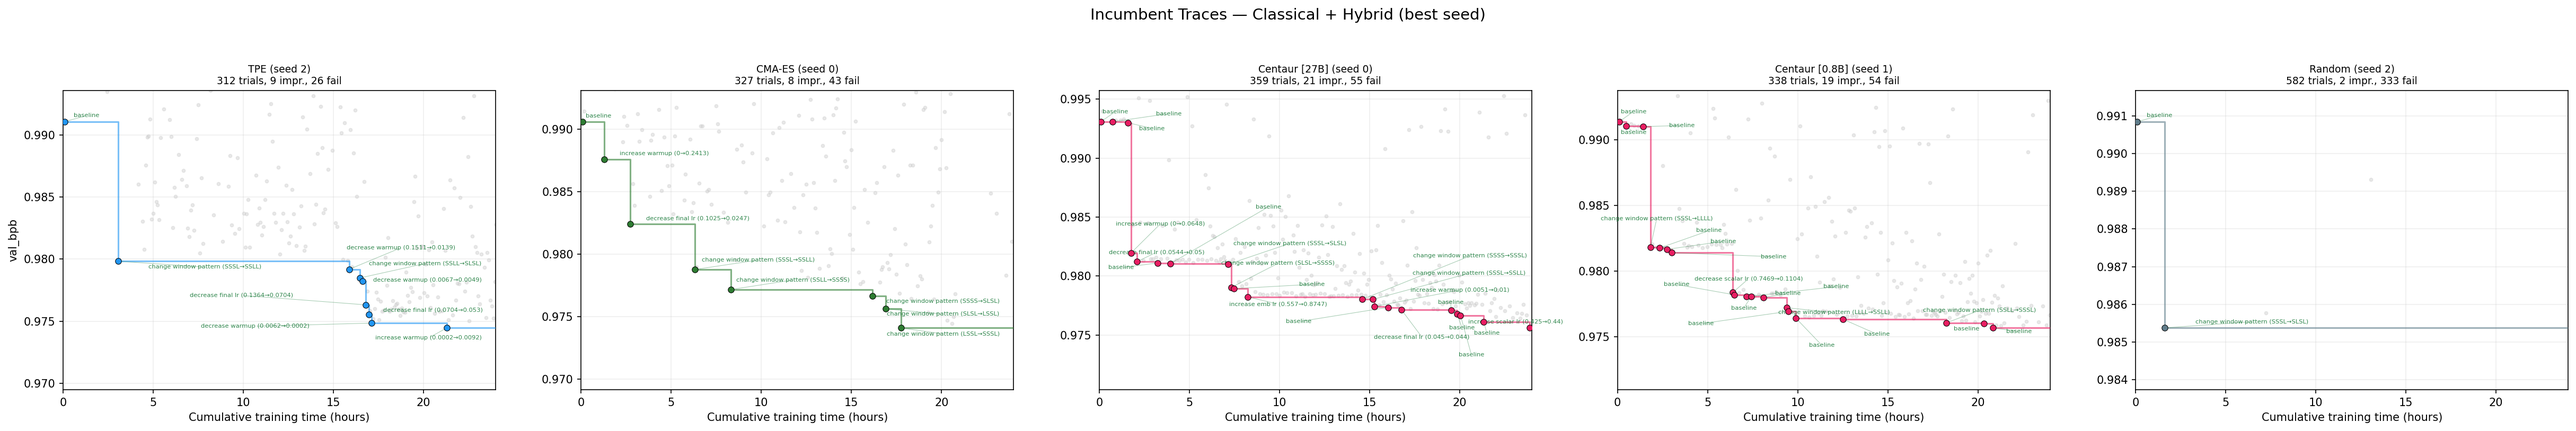
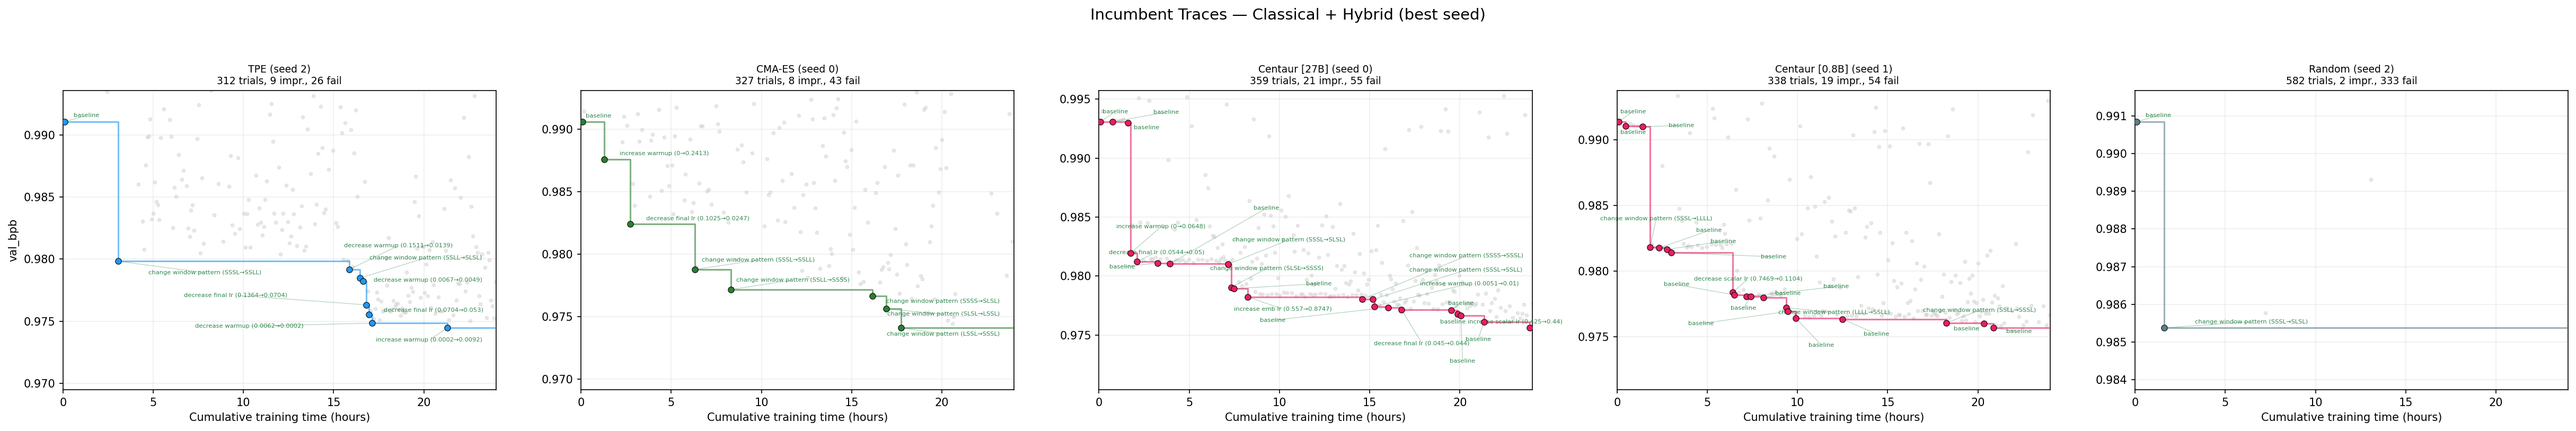
Add trial-number incumbent traces for appendix

diff --git a/scripts/plot_convergence.py b/scripts/plot_convergence.py
@@ -603,6 +603,84 @@ def plot_progress_subplot(ax, bench_dir, backend_name, display_name, color, desc
                     iterations=200)
 
 
+def plot_progress_subplot_trials(ax, bench_dir, backend_name, display_name, color, descriptions=None, seed=0, max_trials=250):
+    """Draw a single Pareto-front progress plot on the given axes (trial number x-axis)."""
+    jsonl = bench_dir / backend_name / f"seed_{seed}" / "trials.jsonl"
+    if not jsonl.exists():
+        ax.set_title(f"{display_name}\n(no data)", fontsize=10)
+        return
+
+    trials = load_trials(jsonl)[:max_trials]
+    if not trials:
+        return
+
+    val_bpbs = []
+    for t in trials:
+        val_bpbs.append(t["val_bpb"] if t["success"] and t["val_bpb"] is not None else None)
+
+    success_x = [i for i, v in enumerate(val_bpbs) if v is not None]
+    success_y = [v for v in val_bpbs if v is not None]
+
+    best = float("inf")
+    incumbents = []
+    disc_x, disc_y = [], []
+    for i, v in zip(success_x, success_y):
+        if v < best:
+            best = v
+            incumbents.append((i, v, trials[i]["config"]))
+        else:
+            disc_x.append(i)
+            disc_y.append(v)
+
+    ax.scatter(disc_x, disc_y, c="#cccccc", s=8, alpha=0.4, zorder=2)
+
+    inc_x = [p[0] for p in incumbents]
+    inc_y = [p[1] for p in incumbents]
+    ax.scatter(inc_x, inc_y, c=color, s=30, zorder=4,
+               edgecolors="black", linewidths=0.5)
+
+    curve = best_so_far(trials)
+    valid_curve = [(i, v) for i, v in enumerate(curve) if v < float("inf")]
+    if valid_curve:
+        stair_x, stair_y = zip(*valid_curve)
+        ax.step(stair_x, stair_y, where="post", color=color,
+                linewidth=1.5, alpha=0.6, zorder=3)
+
+    desc_map = {}
+    if descriptions:
+        for d in descriptions:
+            if d["trial"] < max_trials:
+                desc_map[d["trial"]] = d["description"]
+
+    texts = []
+    prev_config = None
+    for idx, (trial_i, val, config) in enumerate(incumbents):
+        if trial_i in desc_map:
+            label = desc_map[trial_i]
+        elif prev_config is None:
+            label = "baseline"
+        else:
+            label = _config_diff(prev_config, config)
+        prev_config = config
+        texts.append(ax.text(trial_i, val, label, fontsize=5.5, color="#1a7a3a", alpha=0.9))
+
+    n_fail = sum(1 for t in trials if not t.get("success", False))
+    ax.set_title(f"{display_name}\n{len(trials)} trials, {len(incumbents)} impr., {n_fail} fail",
+                 fontsize=9)
+    ax.set_xlim(0, max_trials)
+    if inc_y:
+        ymin = min(inc_y)
+        ymax = inc_y[0] if inc_y else 0.996
+        margin = (ymax - ymin) * 0.3 or 0.002
+        ax.set_ylim(ymin - margin, ymax + margin * 0.5)
+    ax.grid(True, alpha=0.2)
+
+    if texts:
+        adjust_text(texts, ax=ax, arrowprops=dict(arrowstyle="-", color="#1a7a3a", alpha=0.4, lw=0.5),
+                    force_points=(1.0, 1.5), force_text=(1.0, 1.5), expand=(1.5, 1.8),
+                    iterations=200)
+
+
 def _best_seed(bench_dir: Path, backend_name: str) -> int:
     """Find the seed with the best final val_bpb for a backend."""
     best_val, best_seed = float("inf"), 0
@@ -648,31 +726,77 @@ def _plot_incumbent_grid(bench_dir, backends, output_path, title):
     print(f"Saved {output_path}")
 
 
+def _plot_incumbent_grid_trials(bench_dir, backends, output_path, title, max_trials=250):
+    """Shared helper: draw a 1-row grid of incumbent trace subplots by trial number."""
+    desc_path = Path(__file__).parent.parent / "assets" / "incumbent_descriptions.json"
+    all_descriptions = {}
+    if desc_path.exists():
+        all_descriptions = json.loads(desc_path.read_text())
+
+    n = len(backends)
+    fig, axes = plt.subplots(1, n, figsize=(6.5 * n, 5.5))
+    if n == 1:
+        axes = [axes]
+
+    for idx, (backend, name, color) in enumerate(backends):
+        seed = _best_seed(bench_dir, backend)
+        descs = all_descriptions.get(backend)
+        plot_progress_subplot_trials(
+            axes[idx], bench_dir, backend, f"{name} (seed {seed})", color,
+            descriptions=descs, seed=seed, max_trials=max_trials,
+        )
+        axes[idx].set_xlabel("Trial #", fontsize=10)
+    axes[0].set_ylabel("val_bpb", fontsize=10)
+
+    fig.suptitle(title, fontsize=14, y=0.98)
+    fig.tight_layout(rect=[0, 0, 1, 0.94])
+    fig.savefig(output_path, dpi=150, bbox_inches="tight")
+    plt.close(fig)
+    print(f"Saved {output_path}")
+
+
+INCUMBENT_CLASSICAL = [
+    ("optuna", "TPE", "#2196F3"),
+    ("cma_es", "CMA-ES", "#2E7D32"),
+    ("centaur_Qwen3_5_27B", "Centaur [27B]", "#E91E63"),
+    ("centaur_Qwen3_5_0_8B", "Centaur [0.8B]", "#E91E63"),
+    ("random", "Random", "#607D8B"),
+]
+
+INCUMBENT_LLM = [
+    ("llambo_original_Qwen3_5_27B_nothink", "LLAMBO (Paper) [27B]", "#00BCD4"),
+    ("llambo_Qwen3_5_27B_nothink", "LLAMBO (Optuna) [27B]", "#9C27B0"),
+    ("llm_greedy_Qwen3_5_27B_nothink", "Karpathy Agent (14 HPs) [27B]", "#FF9800"),
+    ("karpathy_agent_Qwen3_5_27B", "Karpathy Agent (Code) [27B]", "#795548"),
+]
+
+
 def plot_progress_classical(results_dir: Path, output_path: Path):
-    """Incumbent traces: classical + hybrid methods."""
+    """Incumbent traces: classical + hybrid methods (wall-time)."""
     bench_dir = results_dir / "exp2_benchmark"
-    backends = [
-        ("optuna", "TPE", "#2196F3"),
-        ("cma_es", "CMA-ES", "#2E7D32"),
-        ("centaur_Qwen3_5_27B", "Centaur [27B]", "#E91E63"),
-        ("centaur_Qwen3_5_0_8B", "Centaur [0.8B]", "#E91E63"),
-        ("random", "Random", "#607D8B"),
-    ]
-    _plot_incumbent_grid(bench_dir, backends, output_path,
+    _plot_incumbent_grid(bench_dir, INCUMBENT_CLASSICAL, output_path,
                          "Incumbent Traces — Classical + Hybrid (best seed)")
 
 
 def plot_progress_llm(results_dir: Path, output_path: Path):
-    """Incumbent traces: LLM-based methods."""
+    """Incumbent traces: LLM-based methods (wall-time)."""
     bench_dir = results_dir / "exp2_benchmark"
-    backends = [
-        ("llambo_original_Qwen3_5_27B_nothink", "LLAMBO (Paper) [27B]", "#00BCD4"),
-        ("llambo_Qwen3_5_27B_nothink", "LLAMBO (Optuna) [27B]", "#9C27B0"),
-        ("llm_greedy_Qwen3_5_27B_nothink", "Karpathy Agent (14 HPs) [27B]", "#FF9800"),
-        ("karpathy_agent_Qwen3_5_27B", "Karpathy Agent (Code) [27B]", "#795548"),
-    ]
-    _plot_incumbent_grid(bench_dir, backends, output_path,
+    _plot_incumbent_grid(bench_dir, INCUMBENT_LLM, output_path,
                          "Incumbent Traces — LLM-based (best seed)")
+
+
+def plot_progress_classical_trials(results_dir: Path, output_path: Path):
+    """Incumbent traces: classical + hybrid methods (by trial, capped at 250)."""
+    bench_dir = results_dir / "exp2_benchmark"
+    _plot_incumbent_grid_trials(bench_dir, INCUMBENT_CLASSICAL, output_path,
+                                "Incumbent Traces — Classical + Hybrid (best seed, by trial)")
+
+
+def plot_progress_llm_trials(results_dir: Path, output_path: Path):
+    """Incumbent traces: LLM-based methods (by trial, capped at 250)."""
+    bench_dir = results_dir / "exp2_benchmark"
+    _plot_incumbent_grid_trials(bench_dir, INCUMBENT_LLM, output_path,
+                                "Incumbent Traces — LLM-based (best seed, by trial)")
 
 
 if __name__ == "__main__":
@@ -690,3 +814,6 @@ if __name__ == "__main__":
     plot_progress(results_dir, assets_dir)
     plot_progress_classical(results_dir, assets_dir / "exp2_incumbents_classical.png")
     plot_progress_llm(results_dir, assets_dir / "exp2_incumbents_llm.png")
+    # Trial-number versions (appendix)
+    plot_progress_classical_trials(results_dir, assets_dir / "exp2_incumbents_classical_trials.png")
+    plot_progress_llm_trials(results_dir, assets_dir / "exp2_incumbents_llm_trials.png")
